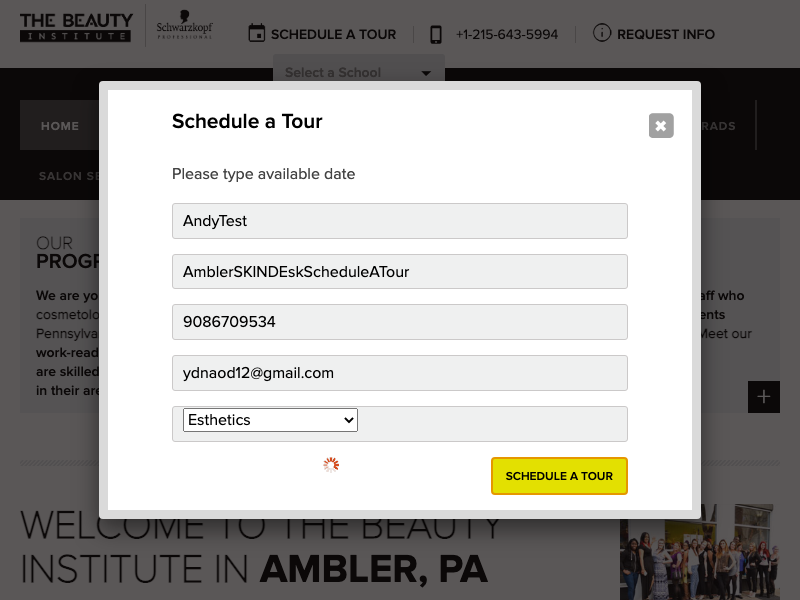
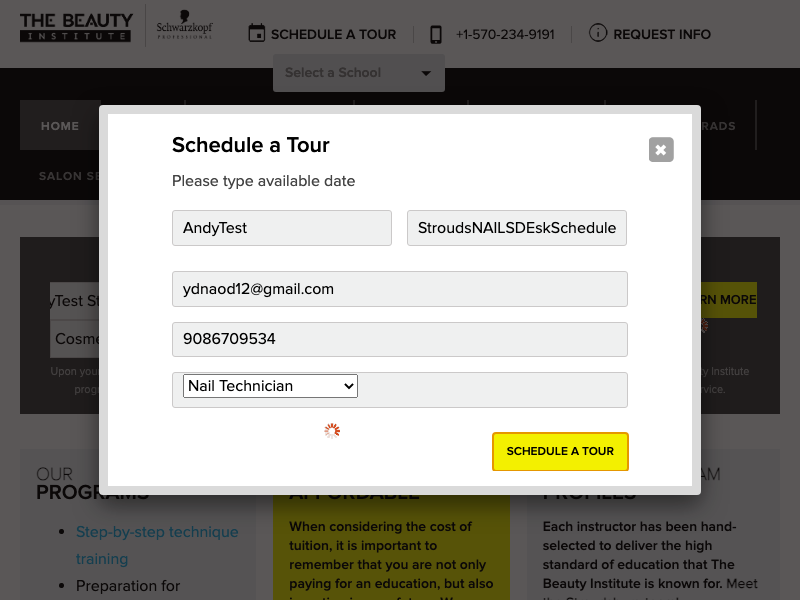
add stroudsburg desktop automation

diff --git a/StroudsburgDesk.js b/StroudsburgDesk.js
@@ -1,0 +1,121 @@
+//const { response } = require('express');
+const config = require('./config');
+//const puppeteer = require('puppeteer');
+const puppeteer = require('puppeteer-extra');
+
+const RecaptchaPlugin = require('puppeteer-extra-plugin-recaptcha');
+puppeteer.use(
+  RecaptchaPlugin({
+    provider: {
+      id: '2captcha',
+      token: config.KEY, // REPLACE THIS WITH YOUR OWN 2CAPTCHA API KEY ⚡
+    },
+    visualFeedback: true, // colorize reCAPTCHAs (violet = detected, green = solved)
+  })
+);
+
+//ambler.testForms();
+//http://ambler.thebeautyinstituteskp.edu/
+const testForms = () => puppeteer.launch({headless:true}).then(async (browser) => {
+  const page = await browser.newPage();
+  
+  await page.goto('http://stroudsburg.thebeautyinstituteskp.edu/');
+  await page.solveRecaptchas();
+  
+  await page.type('#input_11_1', 'AndyTest StroudsCOSDEskStartCareerNow'); 
+  await page.type('#input_11_2', 'ydnaod@gmail.com'); 
+  await page.type('#input_11_3', '9086709533'); 
+  await page.type('#input_11_4', 'Cosmetology'); 
+
+  await page.click('#gform_submit_button_11');
+  console.log('lets gooo');
+
+
+  await Promise.all([
+    //page.waitForSelector('#input_7_7'),
+    page.waitForTimeout(5000),
+    page.click('.schedule'),
+  ]);
+  await page.type('#input_12_7', 'AndyTest'); 
+  await page.type('#input_12_8', 'StroudsNAILSDEskScheduleATour'); 
+  await page.type('#input_12_2', 'ydnaod12@gmail.com'); 
+  await page.type('#input_12_3', '9086709534'); 
+  await page.type('#input_12_4', 'Nail Technician'); 
+
+   await page.click('#gform_submit_button_12');
+   //await page.screenshot({path: 'example.png'});
+
+  await Promise.all([
+    //page.click('#gform_submit_button_7'),
+    page.screenshot({path: 'example.png'}),
+    //page.waitForSelector('#gform_confirmation_message_7'),
+    page.waitForTimeout(5000),
+    page.screenshot({path: 'example2.png'})
+  ]);
+
+  await page.waitForTimeout(5000);
+  await page.screenshot({path: 'example3.png'});
+  await page.click('.fancybox-overlay');
+  await page.screenshot({path: 'example4.png'});
+  
+  await page.waitForTimeout(5000);
+
+  await Promise.all([
+    //page.waitForSelector('.request-info'),
+    //page.waitForSelector('#input_3_3'),
+    page.waitForTimeout(5000),
+    page.click('.request-info')
+  ]);
+  await page.waitForTimeout(3000);
+  await page.type('#input_6_3', 'AndyTest'); 
+  await page.type('#input_6_1', 'StroudsCOSRequestInfo'); 
+  await page.type('#input_6_7', 'ydnaod12@gmail.com'); 
+  await page.type('#input_6_2', '9086709534'); 
+  await page.type('#input_6_5', 'Cosmetology'); 
+
+  await page.click('#gform_submit_button_6');
+  await page.screenshot({path: 'example5.png'});
+  await Promise.all([
+    //page.waitForSelector('#gform_confirmation_message_3'),
+    page.waitForTimeout(5000),
+    page.screenshot({path: 'example6.png'}),
+    page.click('.fancybox-overlay'),
+    page.screenshot({path: 'example7.png'})
+  ]);
+ 
+  await page.waitForTimeout(3000);
+  await page.click('.fancybox-overlay');
+  await page.screenshot({path: 'example8.png'});
+  
+
+ await page.type('#input_2_7', 'AndyTest'); 
+ await page.type('#input_2_8', 'StroudsCOSDEskBotRequestInfo'); 
+ await page.type('#input_2_4', 'Cosmetology'); 
+ await page.type('#input_2_2', 'ydnaod2@gmail.com'); 
+ await page.type('#input_2_3', '9086709534'); 
+
+ await page.screenshot({path: 'example9.png'});
+ await page.waitForTimeout(2000);
+ await page.click('#gform_submit_button_2');
+ await page.waitForTimeout(2000);
+ await page.screenshot({path: 'example10.png'});
+ await page.waitForTimeout(2000);
+ await page.screenshot({path: 'example11.png'});
+ await page.waitForTimeout(8000);
+ await page.screenshot({path: 'example12.png'});
+
+ await page.type('#input_10_1', 'AndyTest StroudsCOSDEskStartCareerNow'); 
+  await page.type('#input_10_8', 'ydnaod@gmail.com'); 
+  await page.type('#input_10_7', '9086709533'); 
+  await page.type('#input_10_3', '10002'); 
+  await page.type('#input_10_5', 'Cosmetology'); 
+
+  await page.click('#gform_submit_button_10');
+  await page.screenshot({path: 'example13.png'});
+  await page.waitForTimeout(10000);
+ 
+  // other actions...
+  await browser.close();
+});
+
+module.exports = {testForms};

diff --git a/PhillyDesk.js b/PhillyDesk.js
@@ -1,0 +1,121 @@
+const ambler = require('./amblerDesk');
+
+//const { response } = require('express');
+const config = require('./config');
+//const puppeteer = require('puppeteer');
+const puppeteer = require('puppeteer-extra');
+
+const RecaptchaPlugin = require('puppeteer-extra-plugin-recaptcha');
+puppeteer.use(
+  RecaptchaPlugin({
+    provider: {
+      id: '2captcha',
+      token: config.KEY, // REPLACE THIS WITH YOUR OWN 2CAPTCHA API KEY ⚡
+    },
+    visualFeedback: true, // colorize reCAPTCHAs (violet = detected, green = solved)
+  })
+);
+
+//ambler.testForms();
+//http://ambler.thebeautyinstituteskp.edu/
+puppeteer.launch({headless:true}).then(async (browser) => {
+  const page = await browser.newPage();
+  
+  await page.goto('http://stroudsburg.thebeautyinstituteskp.edu/');
+  await page.solveRecaptchas();
+  
+  await page.type('#input_11_1', 'AndyTest StroudsCOSDEskStartCareerNow'); 
+  await page.type('#input_11_2', 'ydnaod@gmail.com'); 
+  await page.type('#input_11_3', '9086709533'); 
+  await page.type('#input_11_4', 'Cosmetology'); 
+
+  await page.click('#gform_submit_button_11');
+  console.log('lets gooo');
+
+
+  await Promise.all([
+    //page.waitForSelector('#input_7_7'),
+    page.waitForTimeout(5000),
+    page.click('.schedule'),
+  ]);
+  await page.type('#input_12_7', 'AndyTest'); 
+  await page.type('#input_12_8', 'StroudsNAILSDEskScheduleATour'); 
+  await page.type('#input_12_2', 'ydnaod12@gmail.com'); 
+  await page.type('#input_12_3', '9086709534'); 
+  await page.type('#input_12_4', 'Nail Technician'); 
+
+   await page.click('#gform_submit_button_12');
+   //await page.screenshot({path: 'example.png'});
+
+  await Promise.all([
+    //page.click('#gform_submit_button_7'),
+    page.screenshot({path: 'example.png'}),
+    //page.waitForSelector('#gform_confirmation_message_7'),
+    page.waitForTimeout(5000),
+    page.screenshot({path: 'example2.png'})
+  ]);
+
+  await page.waitForTimeout(5000);
+  await page.screenshot({path: 'example3.png'});
+  await page.click('.fancybox-overlay');
+  await page.screenshot({path: 'example4.png'});
+  
+  await page.waitForTimeout(5000);
+
+  await Promise.all([
+    //page.waitForSelector('.request-info'),
+    //page.waitForSelector('#input_3_3'),
+    page.waitForTimeout(5000),
+    page.click('.request-info')
+  ]);
+  await page.waitForTimeout(3000);
+  await page.type('#input_6_3', 'AndyTest'); 
+  await page.type('#input_6_1', 'StroudsCOSRequestInfo'); 
+  await page.type('#input_6_7', 'ydnaod12@gmail.com'); 
+  await page.type('#input_6_2', '9086709534'); 
+  await page.type('#input_6_5', 'Cosmetology'); 
+
+  await page.click('#gform_submit_button_6');
+  await page.screenshot({path: 'example5.png'});
+  await Promise.all([
+    //page.waitForSelector('#gform_confirmation_message_3'),
+    page.waitForTimeout(5000),
+    page.screenshot({path: 'example6.png'}),
+    page.click('.fancybox-overlay'),
+    page.screenshot({path: 'example7.png'})
+  ]);
+ 
+  await page.waitForTimeout(3000);
+  await page.click('.fancybox-overlay');
+  await page.screenshot({path: 'example8.png'});
+  
+
+ await page.type('#input_2_7', 'AndyTest'); 
+ await page.type('#input_2_8', 'StroudsCOSDEskBotRequestInfo'); 
+ await page.type('#input_2_4', 'Cosmetology'); 
+ await page.type('#input_2_2', 'ydnaod2@gmail.com'); 
+ await page.type('#input_2_3', '9086709534'); 
+
+ await page.screenshot({path: 'example9.png'});
+ await page.waitForTimeout(2000);
+ await page.click('#gform_submit_button_2');
+ await page.waitForTimeout(2000);
+ await page.screenshot({path: 'example10.png'});
+ await page.waitForTimeout(2000);
+ await page.screenshot({path: 'example11.png'});
+ await page.waitForTimeout(8000);
+ await page.screenshot({path: 'example12.png'});
+
+ await page.type('#input_10_1', 'AndyTest StroudsCOSDEskStartCareerNow'); 
+  await page.type('#input_10_8', 'ydnaod@gmail.com'); 
+  await page.type('#input_10_7', '9086709533'); 
+  await page.type('#input_10_3', '10002'); 
+  await page.type('#input_10_5', 'Cosmetology'); 
+
+  await page.click('#gform_submit_button_10');
+  await page.screenshot({path: 'example13.png'});
+  await page.waitForTimeout(10000);
+ 
+  // other actions...
+  await browser.close();
+});

diff --git a/AutomatedForms.js b/AutomatedForms.js
@@ -1,4 +1,5 @@
 const ambler = require('./amblerDesk');
+const stroudsburg = require('./StroudsburgDesk');
 
 //const { response } = require('express');
 const config = require('./config');
@@ -16,96 +17,6 @@ puppeteer.use(
   })
 );
 
-ambler.testForms();
+//ambler.testForms();
+stroudsburg.testForms();
 //http://ambler.thebeautyinstituteskp.edu/
-puppeteer.launch({headless:true}).then(async (browser) => {
-  const page = await browser.newPage();
-  
-  await page.goto('http://stroudsburg.thebeautyinstituteskp.edu/');
-  //await page.solveRecaptchas();
-  
-  await page.type('#input_11_1', 'AndyTest StroudsCOSDEskStartCareerNow'); 
-  await page.type('#input_11_2', 'ydnaod@gmail.com'); 
-  await page.type('#input_11_3', '9086709533'); 
-  await page.type('#input_11_4', 'Cosmetology'); 
-
-  await page.click('#gform_submit_button_11');
-  console.log('lets gooo');
-
-/*
-  await Promise.all([
-    //page.waitForSelector('#input_7_7'),
-    page.waitForTimeout(5000),
-    page.click('.schedule'),
-  ]);
-  await page.type('#input_7_7', 'AndyTest'); 
-  await page.type('#input_7_8', 'AmblerSKINDEskScheduleATour'); 
-  await page.type('#input_7_2', 'ydnaod12@gmail.com'); 
-  await page.type('#input_7_3', '9086709534'); 
-  await page.type('#input_7_4', 'Esthetics'); 
-
-   await page.click('#gform_submit_button_7');
-   //await page.screenshot({path: 'example.png'});
-
-  await Promise.all([
-    //page.click('#gform_submit_button_7'),
-    page.screenshot({path: 'example.png'}),
-    //page.waitForSelector('#gform_confirmation_message_7'),
-    page.waitForTimeout(5000),
-    page.screenshot({path: 'example2.png'})
-  ]);
-
-  await page.waitForTimeout(5000);
-  await page.screenshot({path: 'example3.png'});
-  await page.click('.fancybox-overlay');
-  await page.screenshot({path: 'example4.png'});
-  
-  await page.waitForTimeout(5000);
-
-  await Promise.all([
-    //page.waitForSelector('.request-info'),
-    //page.waitForSelector('#input_3_3'),
-    page.waitForTimeout(5000),
-    page.click('.request-info')
-  ]);
-  await page.waitForTimeout(3000);
-  await page.type('#input_3_3', 'AndyTest'); 
-  await page.type('#input_3_1', 'AmblerSKINRequestInfo'); 
-  await page.type('#input_3_7', 'ydnaod12@gmail.com'); 
-  await page.type('#input_3_2', '9086709534'); 
-  await page.type('#input_3_5', 'Esthetics'); 
-
-  await page.click('#gform_submit_button_3');
-  await page.screenshot({path: 'example5.png'});
-  await Promise.all([
-    //page.waitForSelector('#gform_confirmation_message_3'),
-    page.waitForTimeout(5000),
-    page.screenshot({path: 'example6.png'}),
-    page.click('.fancybox-overlay'),
-    page.screenshot({path: 'example7.png'})
-  ]);
- 
-  await page.waitForTimeout(3000);
-  await page.click('.fancybox-overlay');
-  await page.screenshot({path: 'example8.png'});
-  
-
- await page.type('#input_1_7', 'AndyTest'); 
- await page.type('#input_1_8', 'AmblerCOSDEskBotRequestInfo'); 
- await page.type('#input_1_4', 'Cosmetology'); 
- await page.type('#input_1_2', 'ydnaod2@gmail.com'); 
- await page.type('#input_1_3', '9086709534'); 
-
- await page.screenshot({path: 'example9.png'});
- await page.waitForTimeout(2000);
- await page.click('#gform_submit_button_1');
- await page.waitForTimeout(2000);
- await page.screenshot({path: 'example10.png'});
- await page.waitForTimeout(2000);
- await page.screenshot({path: 'example11.png'});
- await page.waitForTimeout(8000);
- await page.screenshot({path: 'example12.png'});
- */
-  // other actions...
-  await browser.close();
-});
